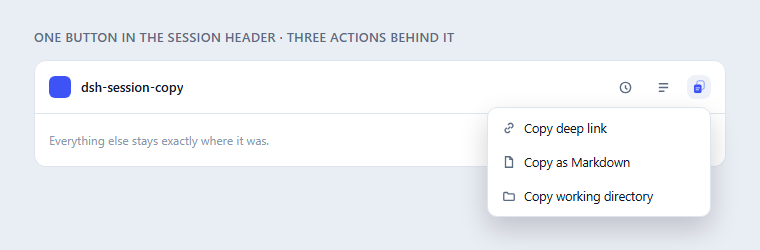
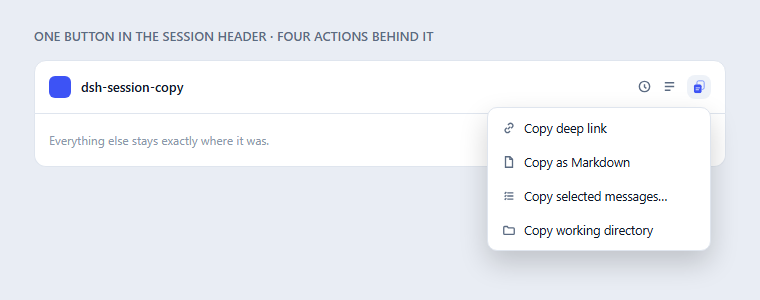
Redraw the header demo with the four menu items
The 1.3.0 screenshot still showed the pre-selection three-item menu, which
would misdescribe the plugin on npm and GitHub. The mock is regenerated from
the plugin's own injected CSS and re-rendered, and the alt text no longer says
"three actions".

diff --git a/assets/demo.html b/assets/demo.html
@@ -8,41 +8,34 @@
     --dsw-font-family:"Segoe UI",system-ui,-apple-system,sans-serif;
   }
   html,body{margin:0;background:#e9edf4;font-family:var(--dsw-font-family)}
-  .stage{width:760px;padding:28px 34px 190px;box-sizing:border-box}
-  .caption{font:600 13px/1.4 var(--dsw-font-family);color:#5b6b82;letter-spacing:.02em;
+  .stage{width:760px;padding:28px 34px 250px;box-sizing:border-box}
+  .caption{font:600 12.5px/1.4 var(--dsw-font-family);color:#5b6b82;letter-spacing:.02em;
     text-transform:uppercase;margin:0 0 14px}
-  /* A faithful stand-in for the real session header. */
-  .header{display:flex;align-items:center;justify-content:space-between;
-    height:52px;padding:0 14px;background:var(--dsw-alias-bg-base);
-    border:1px solid var(--dsw-alias-border-l2);border-radius:12px 12px 0 0}
-  .headerLeft{display:flex;align-items:center;gap:10px;min-width:0}
-  .dot{width:22px;height:22px;border-radius:6px;background:#3d53f5;flex:none}
-  .title{font:600 13px/1.2 var(--dsw-font-family);color:var(--dsw-alias-label-primary);
-    white-space:nowrap;overflow:hidden;text-overflow:ellipsis;max-width:330px}
-  .headerRight{display:flex;align-items:center;gap:10px}
-  .ghost{width:28px;height:28px;border-radius:8px;display:inline-flex;align-items:center;
-    justify-content:center;color:var(--dsw-alias-label-secondary)}
-  .ghost svg{width:15px;height:15px}
+  .header{display:flex;align-items:center;justify-content:space-between;height:52px;padding:0 14px;
+    background:var(--dsw-alias-bg-base);border:1px solid var(--dsw-alias-border-l2);border-radius:12px 12px 0 0}
+  .headerLeft{display:flex;align-items:center;gap:10px}
+  .dot{width:22px;height:22px;border-radius:6px;background:#3d53f5}
+  .title{font:600 13px/1.2 var(--dsw-font-family);color:var(--dsw-alias-label-primary)}
+  .headerRight{display:flex;align-items:center;gap:10px;color:var(--dsw-alias-label-secondary)}
+  .headerRight svg{width:15px;height:15px}
   .body{height:52px;background:var(--dsw-alias-bg-base);border:1px solid var(--dsw-alias-border-l2);
     border-top:0;border-radius:0 0 12px 12px;display:flex;align-items:center;padding:0 14px;
     color:#8b98ab;font-size:12px}
-  .dshSessionCopyWrap{position:relative;display:inline-flex;align-items:center}.dshSessionCopyButton{display:inline-flex;align-items:center;justify-content:center;width:28px;height:28px;flex:none;padding:0;border:0;border-radius:8px;background:transparent;cursor:pointer;color:var(--dsw-alias-label-secondary)}.dshSessionCopyButton svg{width:15px;height:15px}.dshSessionCopyButton:hover,.dshSessionCopyButton[aria-expanded="true"]{color:var(--dsw-alias-label-primary);background:var(--dsw-alias-interactive-bg-hover)}.dshSessionCopyNode{position:relative;display:inline-flex;align-items:center}.dshSessionCopyPopover{position:absolute;top:calc(100% + 6px);right:0;z-index:45;display:flex;flex-direction:column;gap:2px;min-width:188px;padding:4px;border:1px solid var(--dsw-alias-border-l2);border-radius:10px;background:var(--dsw-alias-bg-base,#fff);box-shadow:0 12px 28px rgba(0,0,0,.18)}.dshSessionCopyItem{display:flex;align-items:center;gap:8px;width:100%;padding:6px 10px;border:0;border-radius:6px;background:transparent;cursor:pointer;color:var(--dsw-alias-label-primary);font-family:var(--dsw-font-family);font-size:12px;line-height:18px;text-align:left;white-space:nowrap}.dshSessionCopyItem:hover,.dshSessionCopyItem:focus-visible{background:var(--dsw-alias-interactive-bg-hover);outline:none}.dshSessionCopyItemIcon{display:inline-flex;align-items:center;flex:none;color:var(--dsw-alias-label-secondary)}.dshSessionCopyItemIcon svg{width:14px;height:14px}.dshSessionCopyNotice{position:absolute;top:calc(100% + 8px);right:0;z-index:40;max-width:min(440px,62vw);padding:6px 10px;border:1px solid var(--dsw-alias-border-l2);border-radius:8px;background:var(--dsw-alias-bg-base,#fff);color:var(--dsw-alias-label-primary);font-family:var(--dsw-font-family);font-size:12px;line-height:18px;box-shadow:0 8px 24px rgba(0,0,0,.18);white-space:nowrap;overflow:hidden;text-overflow:ellipsis;pointer-events:none}.dshSessionCopyNoticeError{color:var(--dsw-alias-label-error,#b42318)}
-  .dshSessionCopyButton{color:var(--dsw-alias-label-primary) !important;
-    background:var(--dsw-alias-interactive-bg-hover) !important;
-    width:24px !important;height:24px !important}
-  .dshSessionCopyButton svg{width:22px !important;height:22px !important}
+  .dshSessionCopyWrap{position:relative;display:inline-flex;align-items:center}.dshSessionCopyButton{display:inline-flex;align-items:center;justify-content:center;width:28px;height:28px;flex:none;padding:0;border:0;border-radius:8px;background:transparent;cursor:pointer;color:var(--dsw-alias-label-secondary)}.dshSessionCopyButton svg{width:15px;height:15px}.dshSessionCopyButton:hover,.dshSessionCopyButton[aria-expanded="true"]{color:var(--dsw-alias-label-primary);background:var(--dsw-alias-interactive-bg-hover)}.dshSessionCopyNode{position:relative;display:inline-flex;align-items:center}.dshSessionCopyPopover{position:absolute;top:calc(100% + 6px);right:0;z-index:45;display:flex;flex-direction:column;gap:2px;min-width:188px;padding:4px;border:1px solid var(--dsw-alias-border-l2);border-radius:10px;background:var(--dsw-alias-bg-base,#fff);box-shadow:0 12px 28px rgba(0,0,0,.18)}.dshSessionCopyItem{display:flex;align-items:center;gap:8px;width:100%;padding:6px 10px;border:0;border-radius:6px;background:transparent;cursor:pointer;color:var(--dsw-alias-label-primary);font-family:var(--dsw-font-family);font-size:12px;line-height:18px;text-align:left;white-space:nowrap}.dshSessionCopyItem:hover,.dshSessionCopyItem:focus-visible{background:var(--dsw-alias-interactive-bg-hover);outline:none}.dshSessionCopyItemIcon{display:inline-flex;align-items:center;flex:none;color:var(--dsw-alias-label-secondary)}.dshSessionCopyItemIcon svg{width:14px;height:14px}.dshSessionCopyNotice{position:absolute;top:calc(100% + 8px);right:0;z-index:40;max-width:min(440px,62vw);padding:6px 10px;border:1px solid var(--dsw-alias-border-l2);border-radius:8px;background:var(--dsw-alias-bg-base,#fff);color:var(--dsw-alias-label-primary);font-family:var(--dsw-font-family);font-size:12px;line-height:18px;box-shadow:0 8px 24px rgba(0,0,0,.18);white-space:nowrap;overflow:hidden;text-overflow:ellipsis;pointer-events:none}.dshSessionCopyNoticeError{color:var(--dsw-alias-label-error,#b42318)}.dshSessionCopyMask{position:fixed;inset:0;z-index:9999;display:flex;align-items:center;justify-content:center;background:rgba(8,14,24,.44)}.dshSessionCopyDialog{display:flex;flex-direction:column;width:min(640px,92vw);max-height:min(78vh,760px);border:1px solid var(--dsw-alias-border-l2);border-radius:14px;background:var(--dsw-alias-bg-base,#fff);color:var(--dsw-alias-label-primary);font-family:var(--dsw-font-family);box-shadow:0 24px 64px rgba(0,0,0,.30);overflow:hidden}.dshSessionCopyDialogHead{display:flex;align-items:flex-start;gap:12px;padding:14px 16px 10px}.dshSessionCopyDialogTitles{min-width:0;flex:1}.dshSessionCopyDialogTitle{font-size:14px;font-weight:600;line-height:20px}.dshSessionCopyDialogDesc{margin-top:2px;font-size:12px;line-height:18px;color:var(--dsw-alias-label-secondary)}.dshSessionCopyClose{display:inline-flex;align-items:center;justify-content:center;width:24px;height:24px;flex:none;padding:0;border:0;border-radius:6px;background:transparent;cursor:pointer;color:var(--dsw-alias-label-secondary)}.dshSessionCopyClose:hover{background:var(--dsw-alias-interactive-bg-hover);color:var(--dsw-alias-label-primary)}.dshSessionCopyPickerBody{display:flex;flex-direction:column;min-height:0;flex:1}.dshSessionCopyToolbar{display:flex;align-items:center;gap:8px;flex-wrap:wrap;padding:0 16px 9px}.dshSessionCopyFilter{flex:1 1 170px;min-width:120px;padding:5px 9px;border:1px solid var(--dsw-alias-border-l2);border-radius:8px;background:transparent;color:inherit;font-family:inherit;font-size:12px;line-height:18px;outline:none}.dshSessionCopyFilter:focus{border-color:var(--dsw-alias-label-secondary)}.dshSessionCopyTool{padding:4px 8px;border:1px solid var(--dsw-alias-border-l2);border-radius:7px;background:transparent;color:var(--dsw-alias-label-secondary);font-family:inherit;font-size:11px;line-height:16px;cursor:pointer}.dshSessionCopyTool:hover:not(:disabled){background:var(--dsw-alias-interactive-bg-hover);color:var(--dsw-alias-label-primary)}.dshSessionCopyTool:disabled{opacity:.45;cursor:default}.dshSessionCopyCount{margin-left:auto;font-size:12px;line-height:18px;color:var(--dsw-alias-label-secondary);white-space:nowrap}.dshSessionCopyList{flex:1;min-height:120px;max-height:52vh;overflow-y:auto;padding:4px 8px 8px;border-top:1px solid var(--dsw-alias-border-l2)}.dshSessionCopyRow{display:flex;align-items:flex-start;gap:9px;padding:7px 8px;border-radius:8px;cursor:pointer}.dshSessionCopyRow:hover{background:var(--dsw-alias-interactive-bg-hover)}.dshSessionCopyRow input{margin:2px 0 0;flex:none;accent-color:var(--dsw-alias-label-primary);cursor:pointer}.dshSessionCopyRowText{min-width:0;flex:1}.dshSessionCopyRole{display:block;font-size:10px;font-weight:600;letter-spacing:.06em;text-transform:uppercase;color:var(--dsw-alias-label-secondary)}.dshSessionCopyPreview{font-size:12px;line-height:17px;color:var(--dsw-alias-label-primary);word-break:break-word}.dshSessionCopyRowChars{flex:none;font-size:11px;line-height:17px;color:var(--dsw-alias-label-secondary)}.dshSessionCopyEmpty{padding:26px 16px;text-align:center;font-size:12px;line-height:18px;color:var(--dsw-alias-label-secondary)}.dshSessionCopyPickerError{padding:0 16px 8px;font-size:12px;line-height:18px;color:var(--dsw-alias-label-error,#b42318)}.dshSessionCopyFoot{display:flex;align-items:center;justify-content:flex-end;gap:8px;padding:12px 16px;border-top:1px solid var(--dsw-alias-border-l2)}.dshSessionCopyAction{padding:6px 13px;border:1px solid var(--dsw-alias-border-l2);border-radius:8px;background:transparent;color:var(--dsw-alias-label-primary);font-family:inherit;font-size:12px;line-height:18px;cursor:pointer}.dshSessionCopyAction:hover:not(:disabled){background:var(--dsw-alias-interactive-bg-hover)}.dshSessionCopyAction:disabled{opacity:.45;cursor:default}.dshSessionCopyActionPrimary{border-color:transparent;background:var(--dsw-alias-label-primary);color:var(--dsw-alias-bg-base,#fff);font-weight:600}.dshSessionCopyActionPrimary:hover:not(:disabled){background:var(--dsw-alias-label-primary);opacity:.88}
+  .dshSessionCopyButton{width:24px;height:24px;background:var(--dsw-alias-interactive-bg-hover) !important;
+    color:var(--dsw-alias-label-primary) !important}
+  .dshSessionCopyButton svg{width:22px;height:22px}
   .dshSessionCopyPopover{min-width:214px;top:calc(100% + 8px) !important}
   .dshSessionCopyItem{font-size:12.5px;padding:7px 10px}
-  .holder{position:relative;display:inline-flex}
 </style></head>
 <body>
 <div class="stage">
-  <p class="caption">One button in the session header &middot; three actions behind it</p>
+  <p class="caption">One button in the session header &middot; four actions behind it</p>
   <div class="header">
     <div class="headerLeft"><span class="dot"></span><span class="title">dsh-session-copy</span></div>
     <div class="headerRight">
-      <span class="ghost"><svg viewBox="0 0 16 16" fill="none" stroke="currentColor" stroke-width="1.5"><circle cx="8" cy="8" r="5.5"/><path d="M8 5.5v3l2 1.5"/></svg></span>
-      <span class="ghost"><svg viewBox="0 0 16 16" fill="none" stroke="currentColor" stroke-width="1.5"><path d="M3 4h10M3 8h10M3 12h6"/></svg></span>
+      <svg viewBox="0 0 16 16" fill="none" stroke="currentColor" stroke-width="1.5"><circle cx="8" cy="8" r="5.5"/><path d="M8 5.5v3l2 1.5"/></svg>
+      <svg viewBox="0 0 16 16" fill="none" stroke="currentColor" stroke-width="1.5"><path d="M3 4h10M3 8h10M3 12h6"/></svg>
       <span class="dshSessionCopyWrap"><span class="dshSessionCopyNode">
         <button class="dshSessionCopyButton" aria-haspopup="menu" aria-expanded="true"><svg xmlns="http://www.w3.org/2000/svg" viewBox="0 0 64 64" role="img" aria-label="Session Copy Menu">
   <!-- No background plate: the artwork sits on whatever surface the host draws
@@ -74,6 +67,7 @@
         <div class="dshSessionCopyPopover" role="menu">
           <button class="dshSessionCopyItem" role="menuitem"><span class="dshSessionCopyItemIcon"><svg viewBox="0 0 16 16" fill="none" stroke="currentColor" stroke-width="1.5"><path d="M6.5 9.5l3-3M6.8 4.6l1.1-1.1a2.6 2.6 0 013.7 3.7l-1.1 1.1M9.2 11.4l-1.1 1.1a2.6 2.6 0 01-3.7-3.7l1.1-1.1"/></svg></span><span>Copy deep link</span></button>
           <button class="dshSessionCopyItem" role="menuitem"><span class="dshSessionCopyItemIcon"><svg viewBox="0 0 16 16" fill="none" stroke="currentColor" stroke-width="1.5"><path d="M4 2h5l3 3v9H4z"/><path d="M9 2v3h3"/></svg></span><span>Copy as Markdown</span></button>
+          <button class="dshSessionCopyItem" role="menuitem"><span class="dshSessionCopyItemIcon"><svg viewBox="0 0 16 16" fill="none" stroke="currentColor" stroke-width="1.5"><path d="M6 4.5h7M6 8h7M6 11.5h7"/><path d="M3 4.2l.7.7 1.3-1.4M3 7.7l.7.7 1.3-1.4M3 11.2l.7.7 1.3-1.4"/></svg></span><span>Copy selected messages…</span></button>
           <button class="dshSessionCopyItem" role="menuitem"><span class="dshSessionCopyItemIcon"><svg viewBox="0 0 16 16" fill="none" stroke="currentColor" stroke-width="1.5"><path d="M2 5a1 1 0 011-1h3l1.2 1.5H13a1 1 0 011 1V12a1 1 0 01-1 1H3a1 1 0 01-1-1z"/></svg></span><span>Copy working directory</span></button>
         </div>
       </span></span>

diff --git a/README.md b/README.md
@@ -8,7 +8,7 @@ English | [中文](README.zh.md)
 [![publish](https://img.shields.io/github/actions/workflow/status/2310770803/dsh-session-copy/publish.yml?style=flat-square&label=publish)](../../actions/workflows/publish.yml)
 [![SLSA](https://img.shields.io/badge/SLSA-provenance-brightgreen?style=flat-square)](https://registry.npmjs.org/-/npm/v1/attestations/dsh-session-copy@latest)
 
-![One button in the session header, three actions behind it](https://raw.githubusercontent.com/2310770803/dsh-session-copy/main/assets/demo.png)
+![One button in the session header, four actions behind it](https://raw.githubusercontent.com/2310770803/dsh-session-copy/main/assets/demo.png)
 
 One button in the DSH Web session header. Click it and pick what to copy —
 **deep link**, **whole conversation as Markdown**, **only the messages you tick**,
